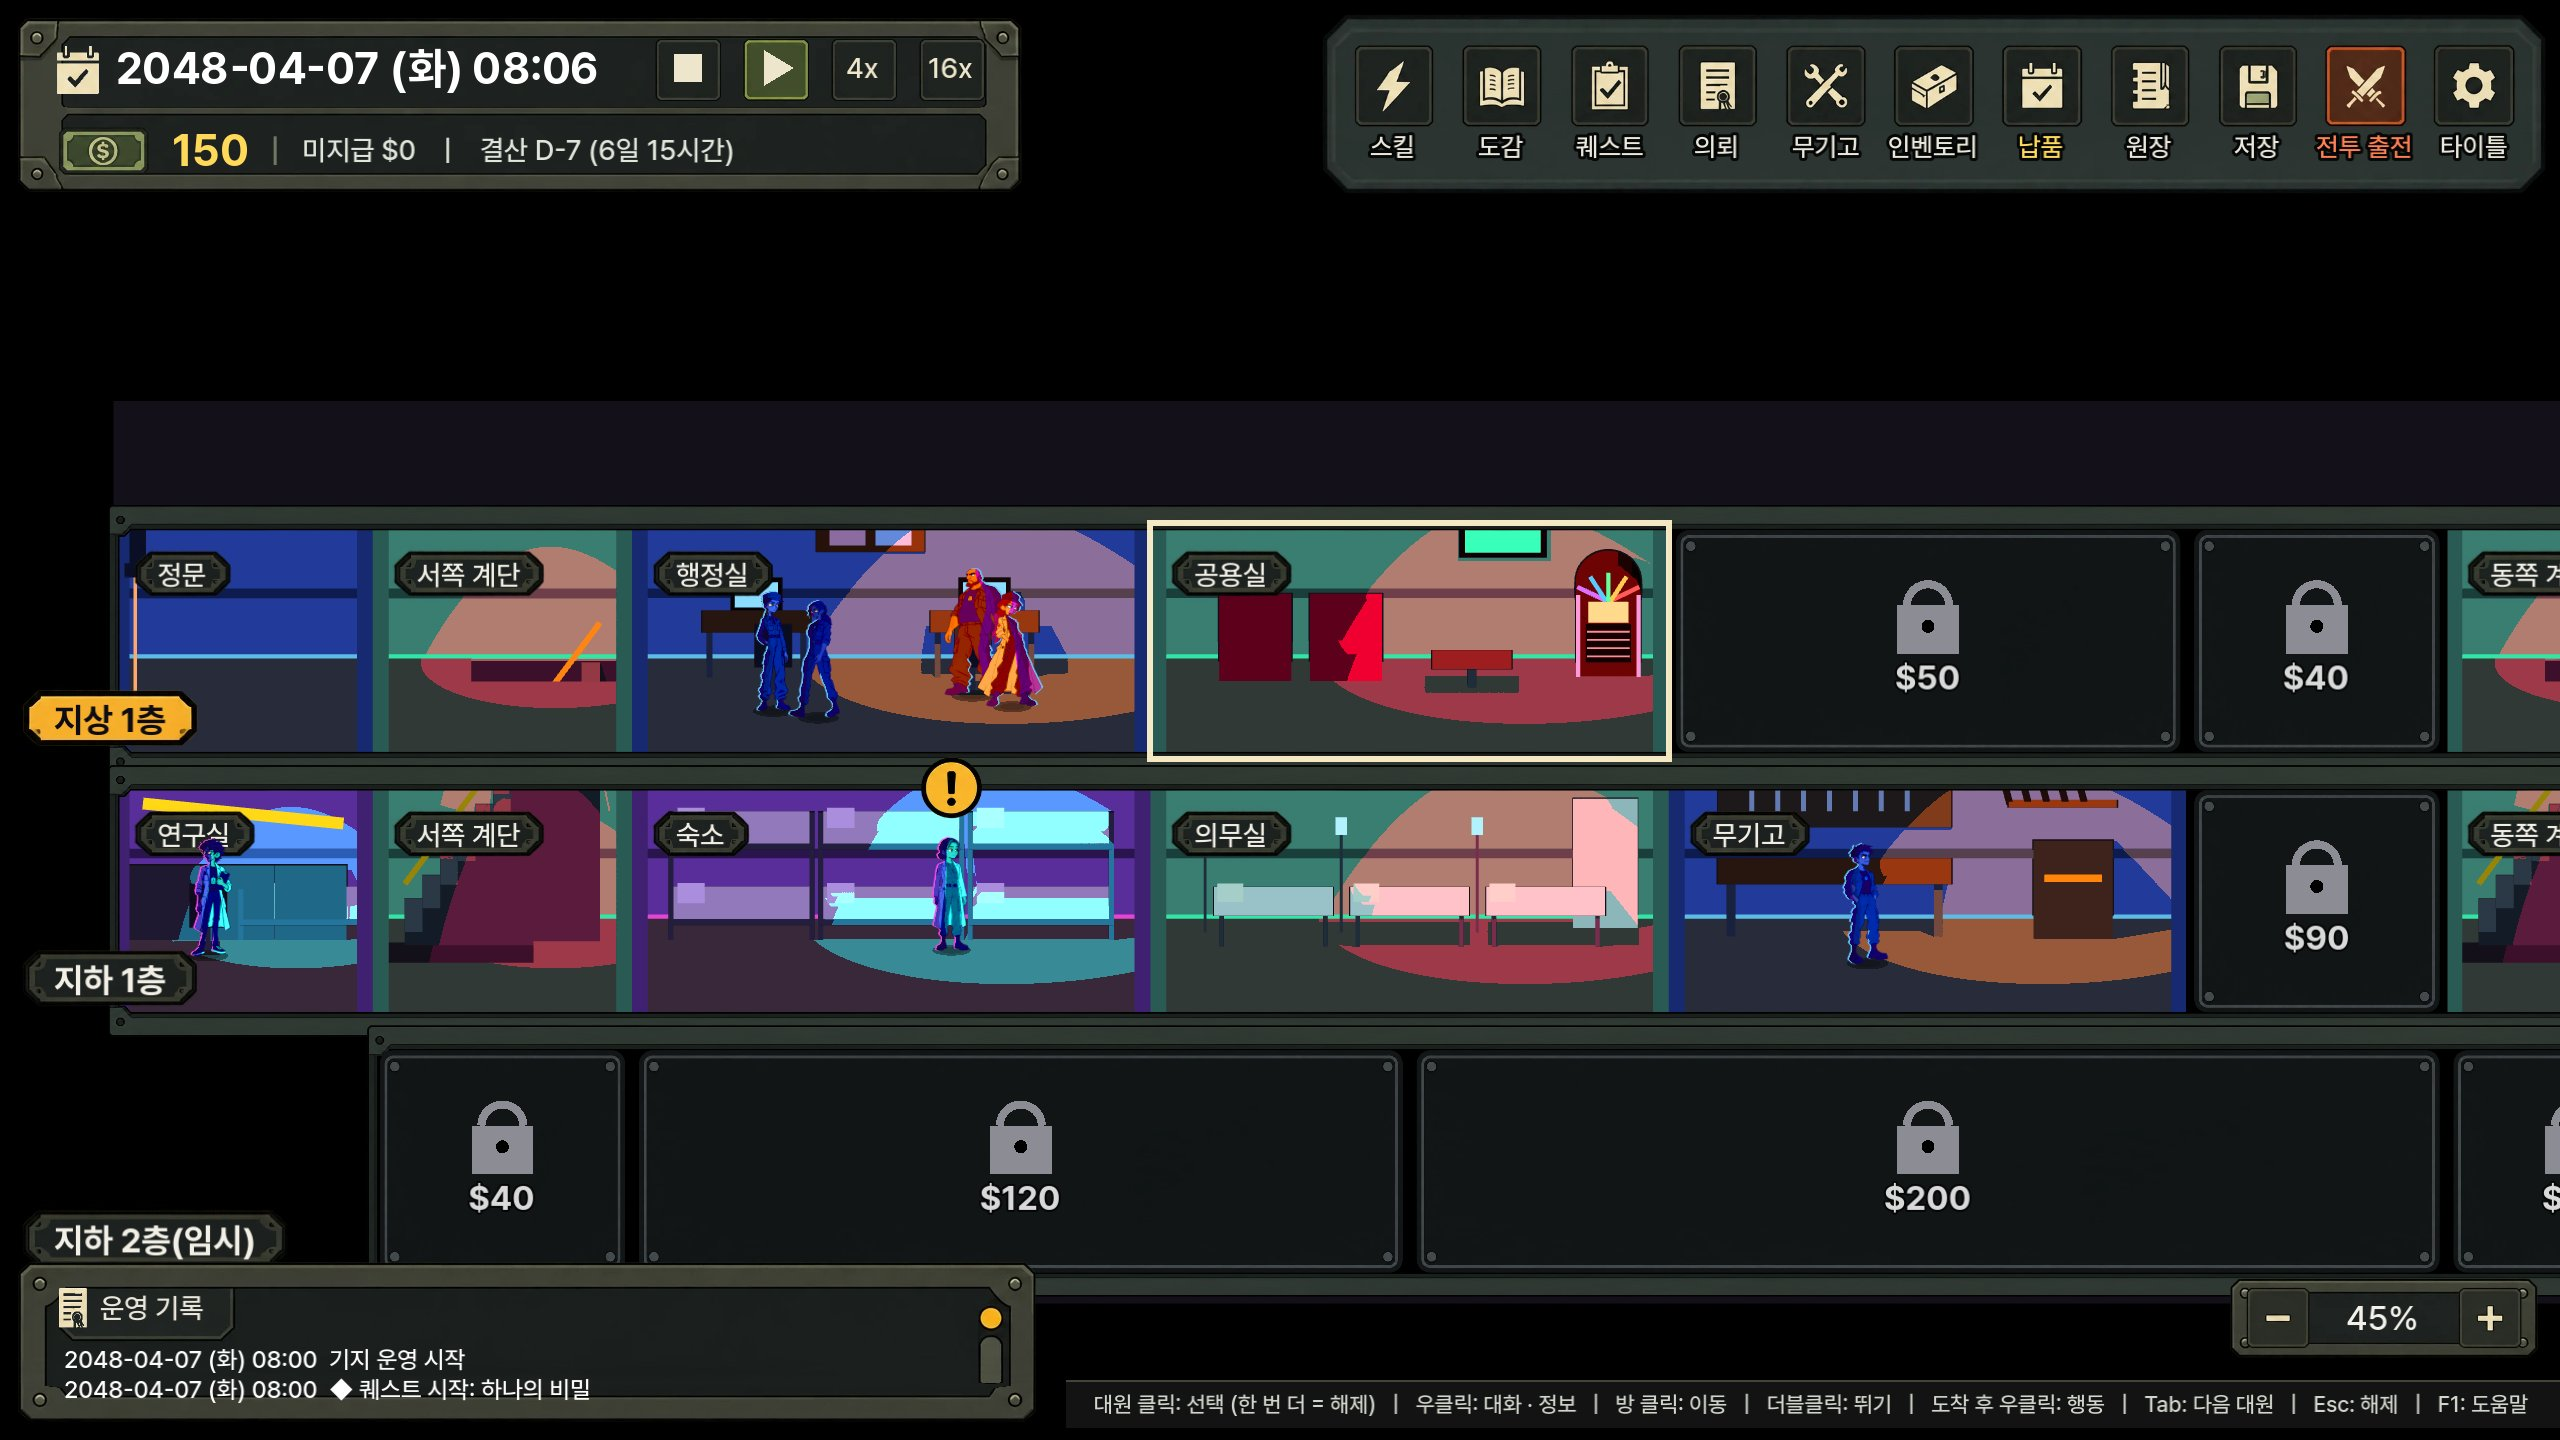
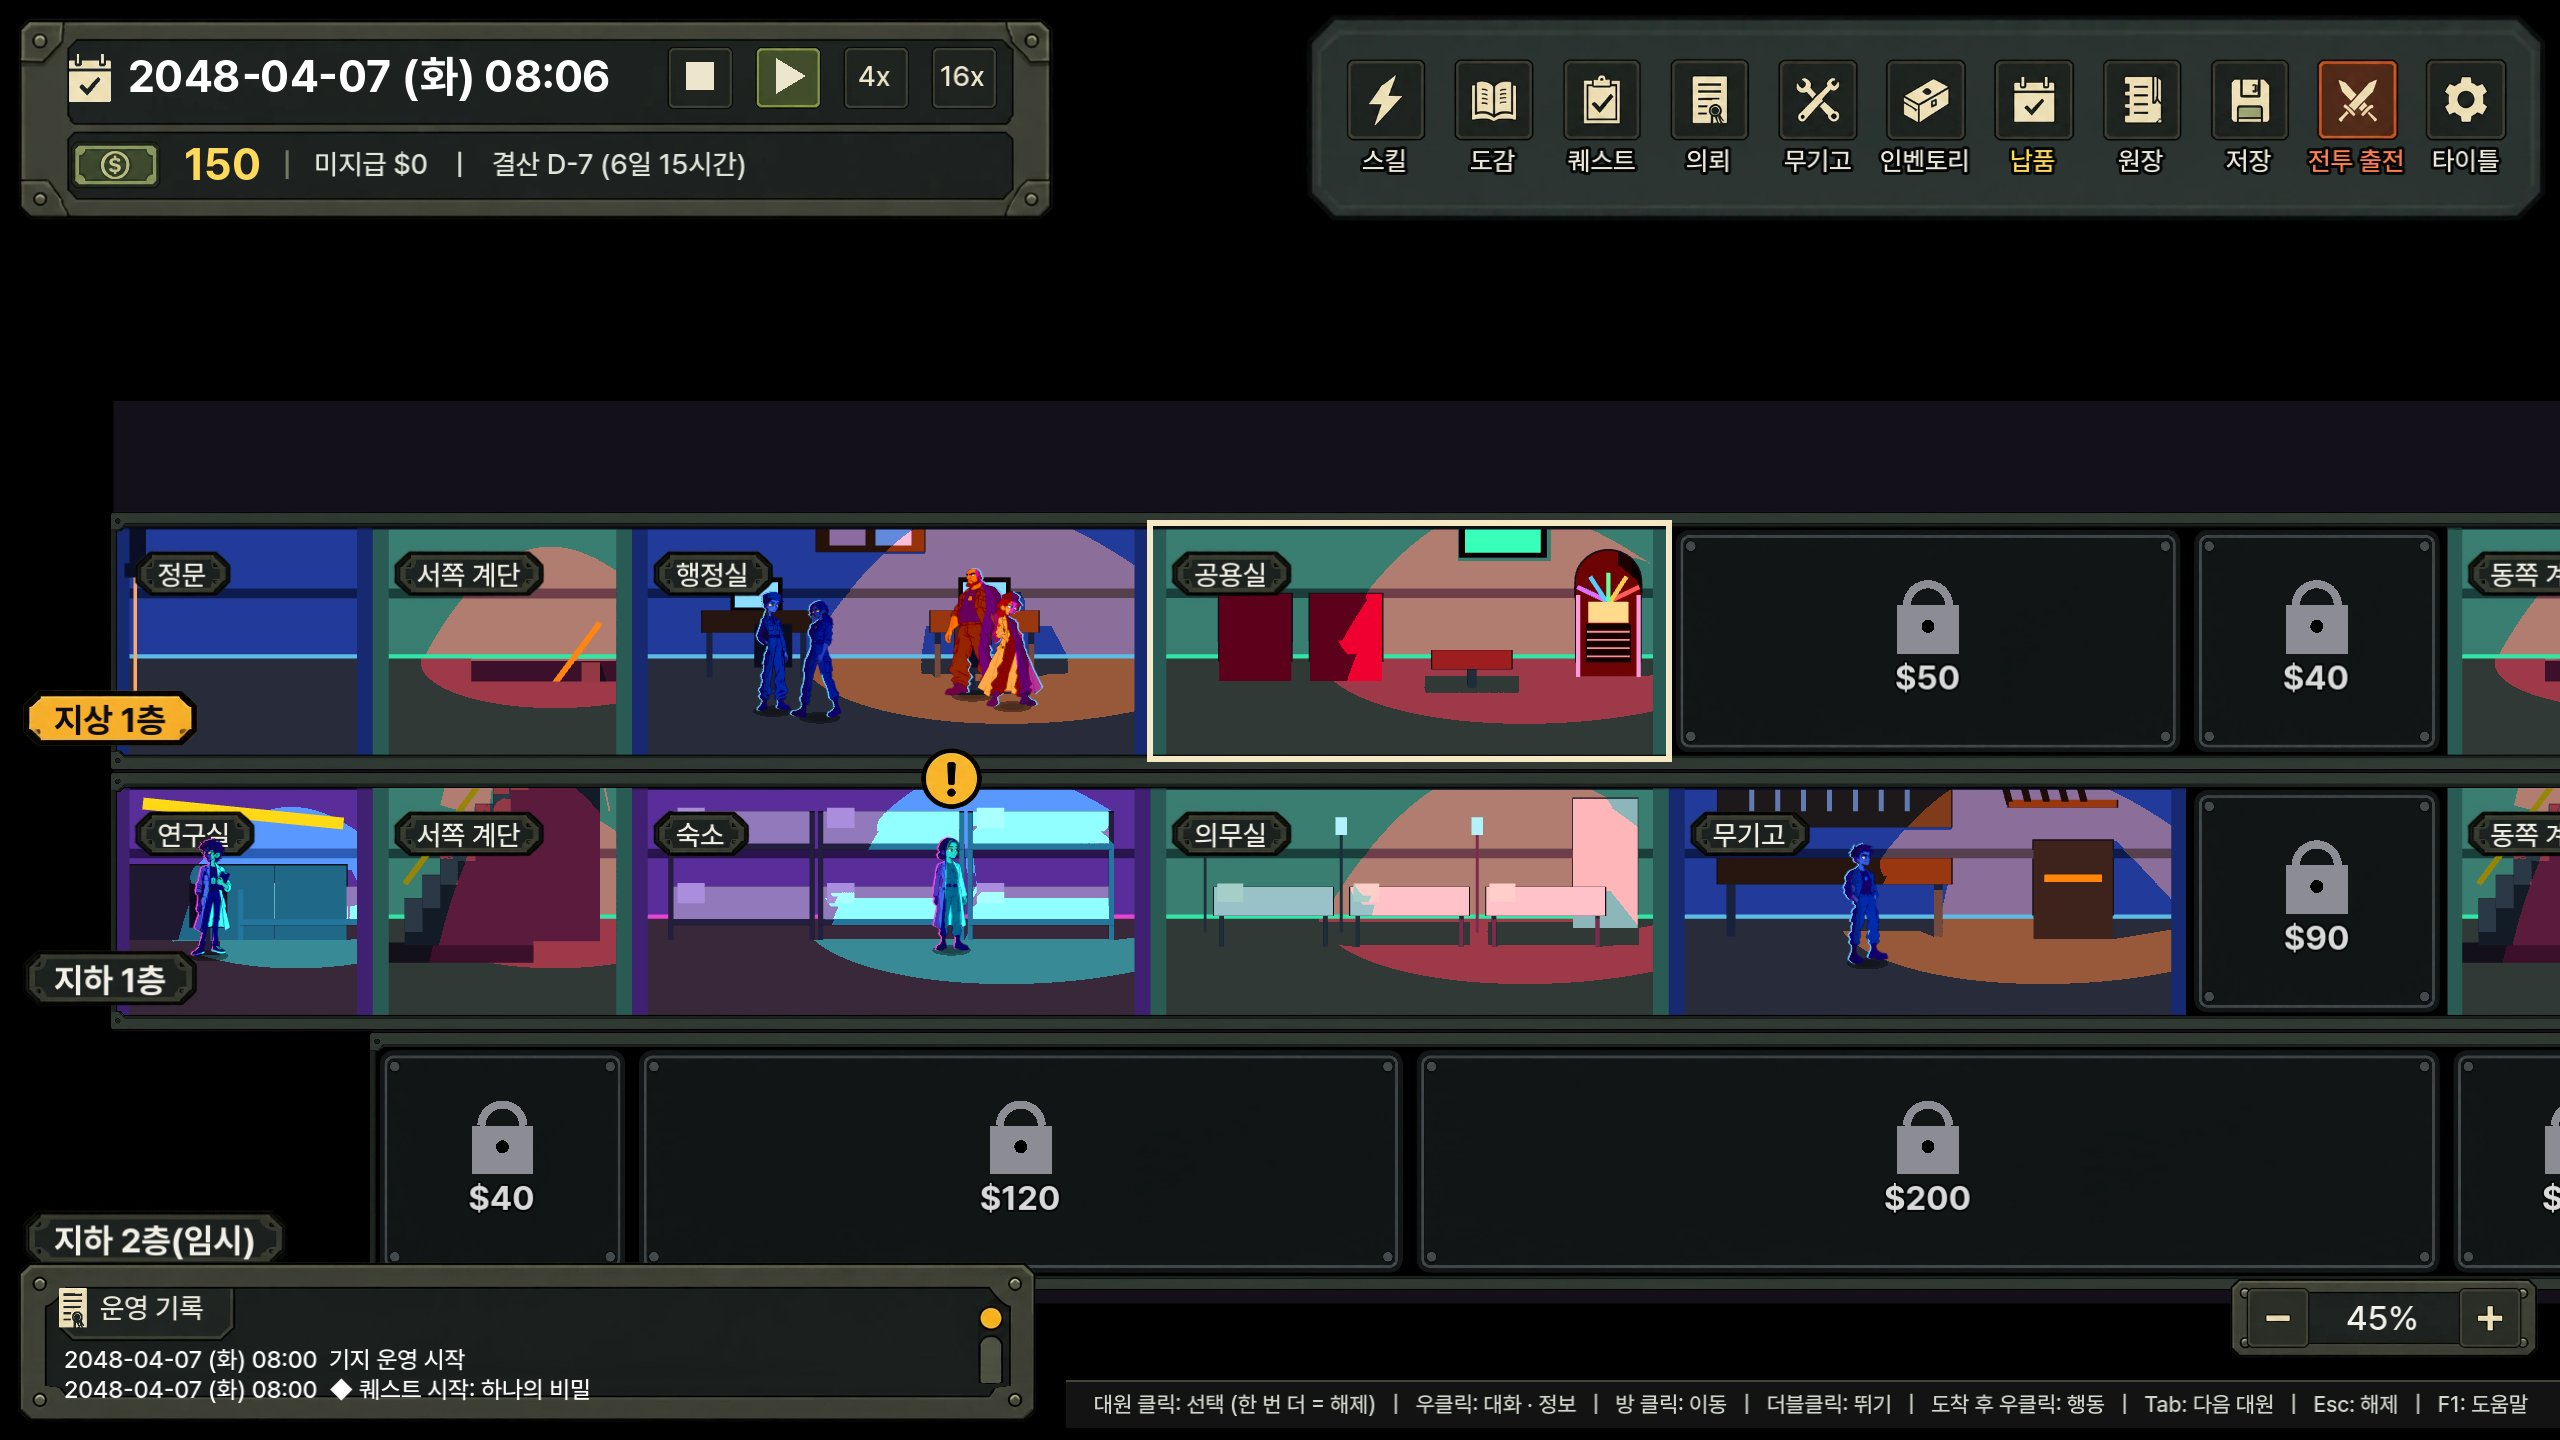
Stop floor frames overlapping; enlarge the top panels slightly
- Floor frame bands extend at most half the gap to the neighbouring
  floor and thin out when the gap is small, so frames never overlap.
- Date and icon-bar panels drawn at 0.56 scale with larger padding, the
  same height, so date, buttons and info text sit inside the inner rows.

Claude-Session: https://claude.ai/code/session_014aytw3hj7boqn3SZ5GP5ti

diff --git a/docs/design/PROTOTYPE_GDD_v1_0.md b/docs/design/PROTOTYPE_GDD_v1_0.md
@@ -4,7 +4,7 @@
 
 ## 0. 현재 구현 반영 (변경될 때마다 갱신)
 > 아래는 원 기획 이후 사용자 결정으로 바뀐 내용. 상세 결정 이력은 `00_decision_log_v1_0.md`, 아트 규격은 `../ui_art_spec.md`.
-> 마지막 갱신: 2026-10-31 (최종 시안: ui-room 테두리는 층마다 · 마우스를 올린 방 = 크림색)
+> 마지막 갱신: 2026-10-31 (층 테두리 안 겹치게 · 상단 패널 조금 크게)
 
 - **표현**: 캐릭터 2D **스프라이트 프레임 애니메이션**(**스프라이트 시트** `assets/characters/<id>/<동작>_<칸 수>.png`, 사용자가 제작 — 시트 없는 동작은 기본 그림 한 장. 현재: 하나·니키타·키라·단·이선·앨마 idle(기본 그림 숨쉬기) — 니키타(빨간 머리 의무병 코트)·키라(회색 군복, 최종)·하나(곱슬머리 군복·오른쪽 눈 아래 점, 최종)·앨마(흰 의무 가운)는 새 그림으로 교체되어 예전 걷기·피격·공격 시트는 지움) + 배경 3D(실광원·그림자). Skeleton2D 리그·3D 캐릭터 전환은 제거.
   칠 방식: **전 캐릭터 네온 칠**(선화는 원화 그대로, 면은 원화 밝기대로 조명색으로 덮음 — 어두운 면은 깊은 보라, 밝은 면은 조명색). `character.json` `"style": "classic"` 이면 예전 셀 칠, `"neon_gradient"` 0~1 = 몸 위→아래 색상 그라데이션(기본 끔).

diff --git a/docs/design/00_decision_log_v1_0.md b/docs/design/00_decision_log_v1_0.md
@@ -582,6 +582,10 @@
   - ui-room 테두리는 방마다가 아니라 **층마다** (그 층 방 전체를 감싸 위 · 아래 볼트 띠가 층 사이 슬래브 위, 배율 0.28). 방마다 그리던 테두리는 뺌.
   - 마우스를 올린 방 테두리: 민트 → 크림색 (시안).
 
+- **2026-10-31 층 테두리 겹침 · 상단 패널 크기** (사용자 스샷: 지하 1층 · 2층 테두리가 겹침 / 레퍼런스: 상단 패널 조금 크게)
+  - 층 테두리의 위 · 아래 띠는 옆 층과의 틈 절반까지만 넓히고, 틈이 좁으면 띠 배율도 줄임 → 층끼리 안 겹침.
+  - 상단 날짜 패널 · 아이콘 줄 패널 그림 배율 0.5 → 0.56 (높이 ≈ 106, 두 패널 같은 높이), 안쪽 여백도 늘려 날짜 · 버튼 · 정보 글자가 패널 안쪽 칸 안에.
+
 ## 검증 중 (확정 아님)
 - **배경 3D + 캐릭터 2D 하이브리드** (2026-10-25 적용): 배경은 3D 방을 2D 카메라와 같은 투영으로 렌더, 캐릭터 라이팅은 실제 광원 위치 기준
   (빛 쪽 얼굴·몸을 광원색으로 밝힘 + 빛이 뒤에서 오면 같은 쪽 가장자리 림 + 바닥 그림자). 캐릭터 2D(리그)는 확정 사항 유지. (이전 2D 배경 판은 2026-10-27 제거.)
